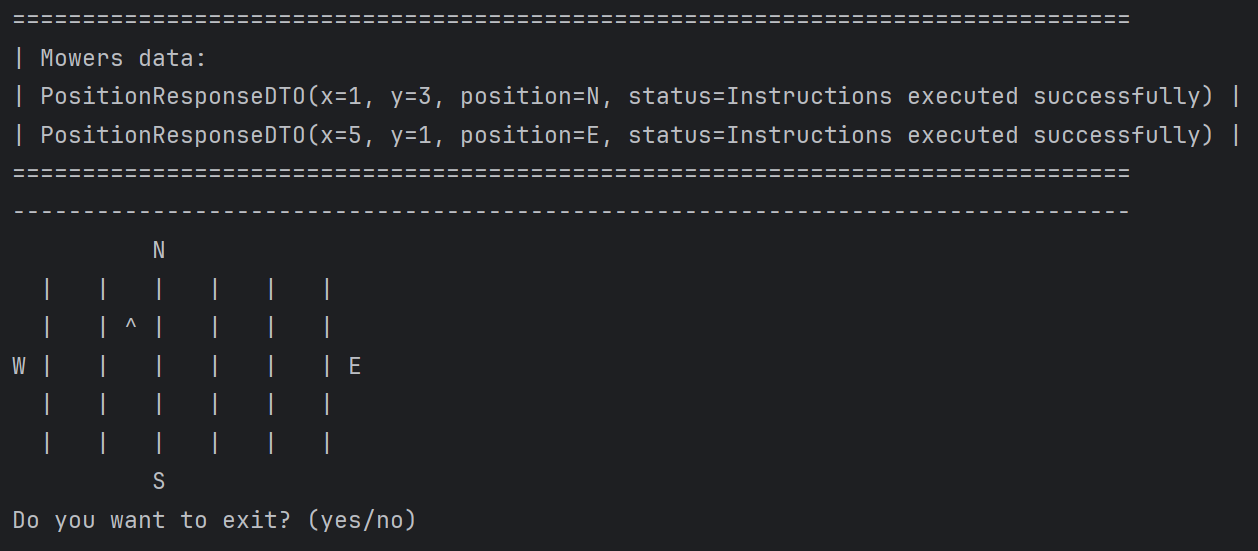
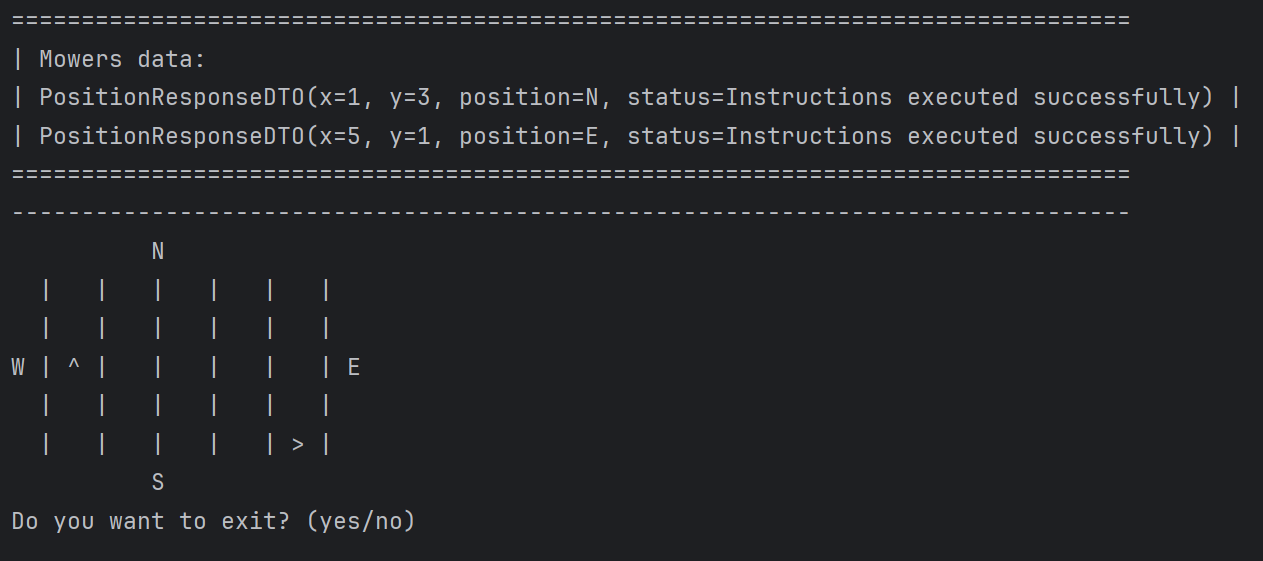
Fix mowers draw in cli

diff --git a/src/main/java/com/smartmowdrive/application/cli/MowerCLI.java b/src/main/java/com/smartmowdrive/application/cli/MowerCLI.java
@@ -118,13 +118,14 @@ public class MowerCLI implements CommandLineRunner {
             for (int x = 0; x < Integer.parseInt(terrainDimensions.split(" ")[0]); x++) {
                 int finalX = x;
                 int finalY = y;
-                var mowerAtPosition = mowersFinalPositions.stream()
-                        .filter(mower -> mower.getX() == finalX && mower.getY() == finalY)
-                        .findFirst();
+                var mowersAtPosition = mowersFinalPositions.stream()
+                        .filter(mower -> mower.getX() == finalX + 1 && mower.getY() == finalY + 1)
+                        .toList();
 
-                if (mowerAtPosition.isPresent()) {
-                    // Print the mower and its direction
-                    System.out.print("| " + getDirectionSymbol(Position.fromChar(mowerAtPosition.get().getPosition())) + " ");
+                if (!mowersAtPosition.isEmpty()) {
+                    for (var mower : mowersAtPosition) {
+                        System.out.print("| " + getDirectionSymbol(Position.fromChar(mower.getPosition())) + " ");
+                    }
                 } else {
                     // Print an empty cell
                     System.out.print("|   ");
